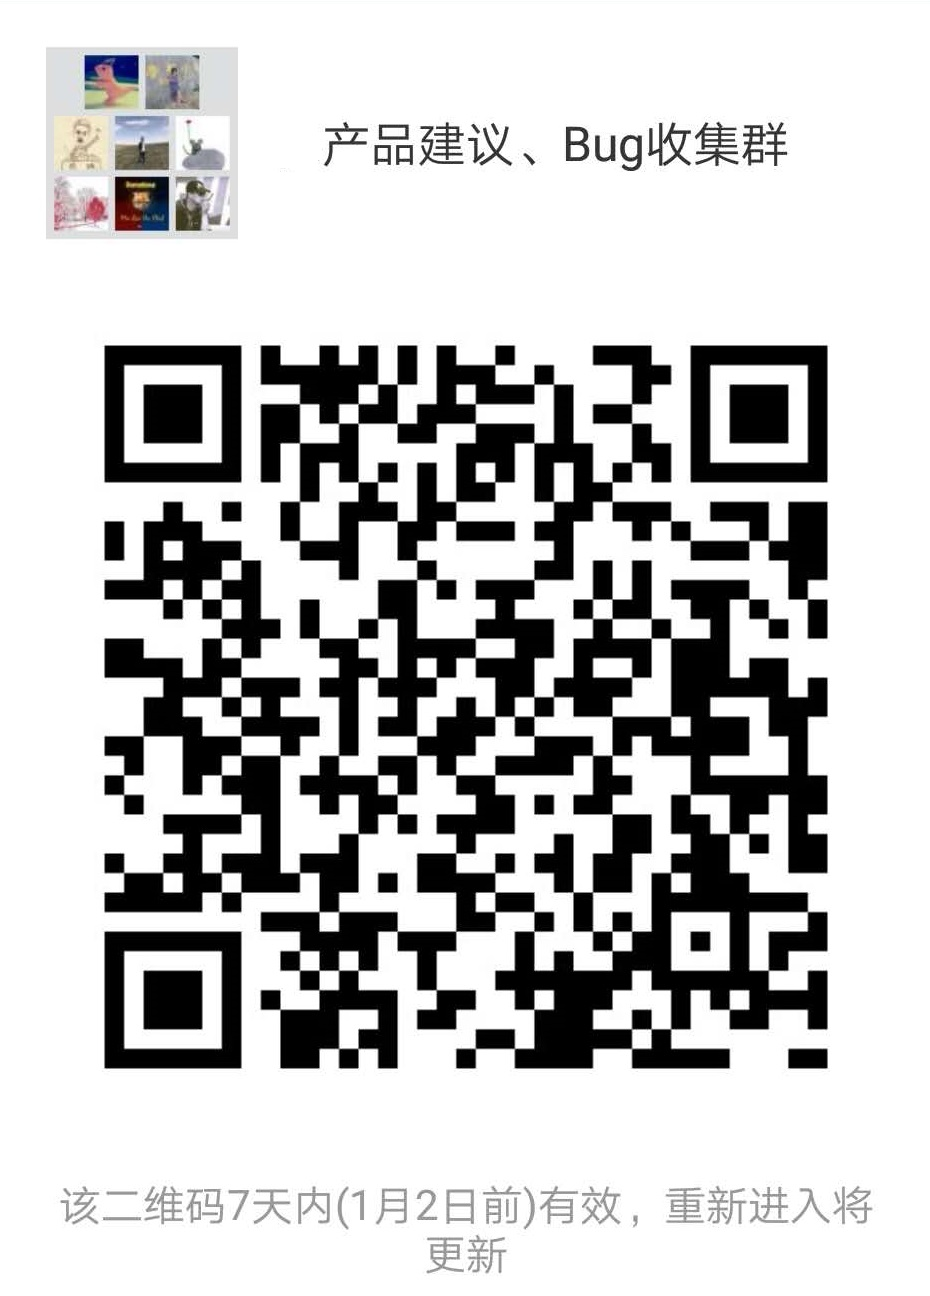
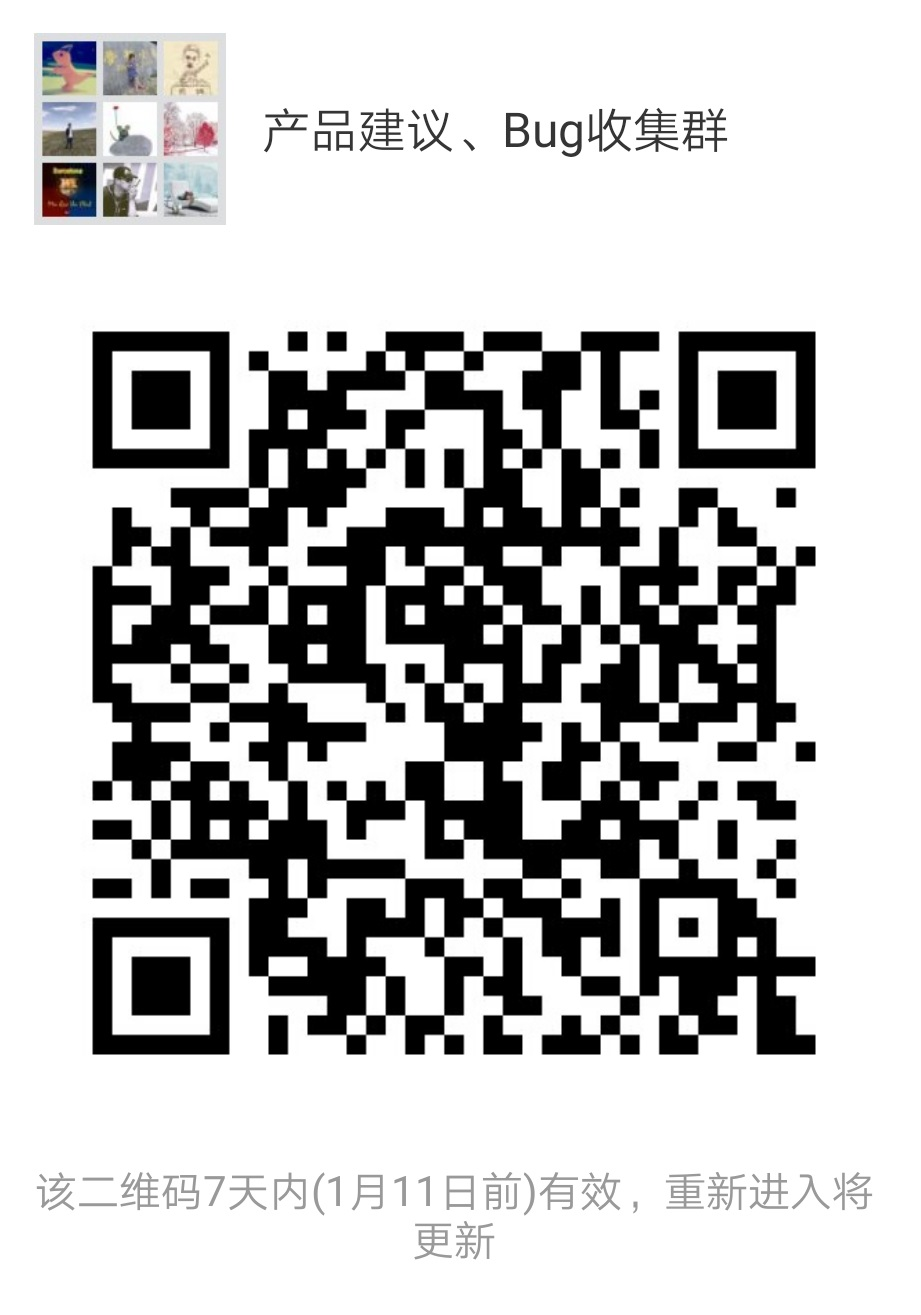
1、更改密码索取方式；2、更新群二维码有效期至少2-11日

diff --git a/index.html b/index.html
@@ -42,10 +42,9 @@
 				   1.iPhone,iPad安装后，需要到“通用”-“设备管理”-未受信任的企业级开发者”，进行“ChinaMobile证书”信任，方可正常运行。<br>
 				   <a href="https://jingyan.baidu.com/article/d5a880eba43d3013f147cc1e.html">iPhone，iPad安装后信任教程</a>
                 </p>
-				<p>2.用户名/初始密码: OA账号/cmcc2018 登录后请尽快更新密码 <br>（例如：shenfeng1/cmcc2018）</p>
-                <p>3.目前内部体验用户，可以加入下面的微信群进行产品讨论及问题反馈，会有惊喜呦！</p>
-				<p>4.此版本为内部测试版，可能存在很多缺陷，请大家多多体谅、包涵，我们未来将持续更新！<br>
-                    👇如有问题请通过微信群向我们反馈 ，谢谢！</p>
+                <p>2.目前内部体验用户，可以加入下面的微信群进行产品讨论及问题反馈，会有惊喜呦！</p>
+				<p>3.此版本为内部测试版，可能存在很多缺陷，请大家多多体谅、包涵，我们未来将持续更新！<br>
+                   👇另，用户名密码索取及问题反馈，请通过微信群联系我们 ，谢谢！</p>
 
                 <img style="text-align:center;" width="200px" src="image/wxqun.jpg">
 
